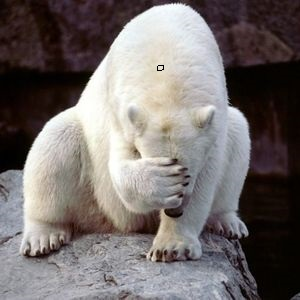
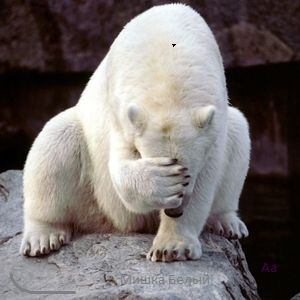
version 1.01: - added marking by filled block - result image contains both images

diff --git a/ImageAnalyse/src/Main.java b/ImageAnalyse/src/Main.java
@@ -2,6 +2,9 @@ import esa.components.*;
 import esa.components.exceptions.NoSuchBlockException;
 import esa.utilities.ImageUtilities;
 
+import java.awt.*;
+import java.awt.image.BufferedImage;
+
 public class Main {
 
     public static void main(String[] args) throws NoSuchBlockException {
@@ -37,13 +40,20 @@ public class Main {
                 ColorMatrix c1 = blocks1.getColorMatrix(i,j);
                 ColorMatrix c2 = blocks2.getColorMatrix(i,j);
                 if (!(c1.equals(c2, OVERALL_ALLOWABLE_ERROR))) {
-                    blocks2.selectBlock(i,j);
+                    blocks1.markBlock(i, j, ImageBlocks.FillType.MARK_FILL);
+                    blocks2.markBlock(i, j, ImageBlocks.FillType.MARK_FILL);
                 }
             }
         }
 
+        // Creates new result image
+        BufferedImage resultImage = new BufferedImage(i1.getWidth()+i2.getWidth(), i1.getHeight(), BufferedImage.TYPE_INT_RGB);
+        Graphics2D g2 = resultImage.createGraphics();
+        g2.drawImage(blocks1.makeImage(), 0, 0, null);
+        g2.drawImage(blocks2.makeImage(), i2.getWidth(), 0, null);
+
         // Save result image to disk
-        ImageUtilities.savePNGImage(blocks2.makeImage(), "result.png");
+        ImageUtilities.savePNGImage(resultImage, "result.png");
 
 
     }

diff --git a/ImageAnalyse/src/esa/components/ImageBlocks.java b/ImageAnalyse/src/esa/components/ImageBlocks.java
@@ -8,6 +8,8 @@ import static esa.utilities.ImageUtilities.newSizeImage;
 
 /**
  * Created by SnakE on 14.11.2015.
+ *
+ * version 1.01 :)
  */
 public class ImageBlocks {
     private BufferedImage [][] subs;
@@ -122,17 +124,31 @@ public class ImageBlocks {
 
 
     /**
+     * Type of block marking: fill or no fill
+     */
+    public enum FillType {MARK_FILL, MARK_NOFILL}
+
+
+    /**
      * Marks block (l, r) with red square
      * @param l    line
      * @param r    row
      * @throws NoSuchBlockException
      */
-    public void selectBlock(int l, int r) throws NoSuchBlockException {
+    public void markBlock(int l, int r, FillType type) throws NoSuchBlockException {
         isBlock(l,r);
         Graphics2D g = subs[l][r].createGraphics();
-        g.setColor(Color.RED);
-        g.drawRect(0,0,side-1,side-1);
+        switch (type) {
+            case MARK_FILL:
+                g.setColor(new Color(255, 0,0, 100));
+                g.fillRect(0, 0, side, side);
+                break;
+            case MARK_NOFILL:
+                g.setColor(new Color(255, 0,0));
+                g.drawRect(0, 0, side - 1, side - 1);
+        }
     }
+
 
 
     /**
